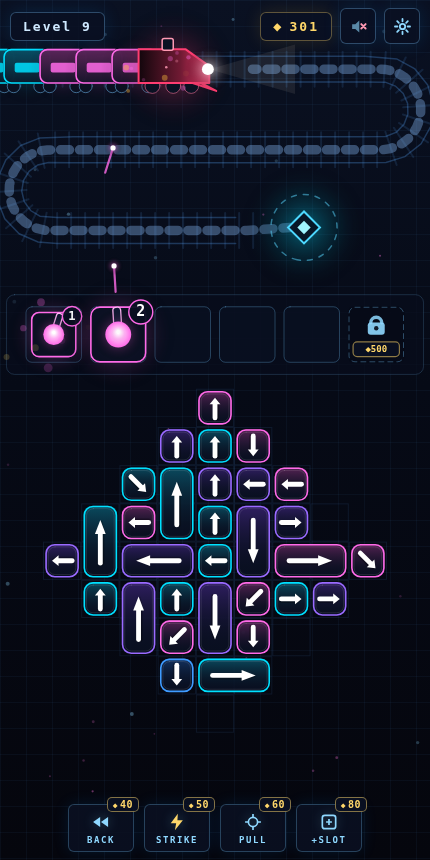
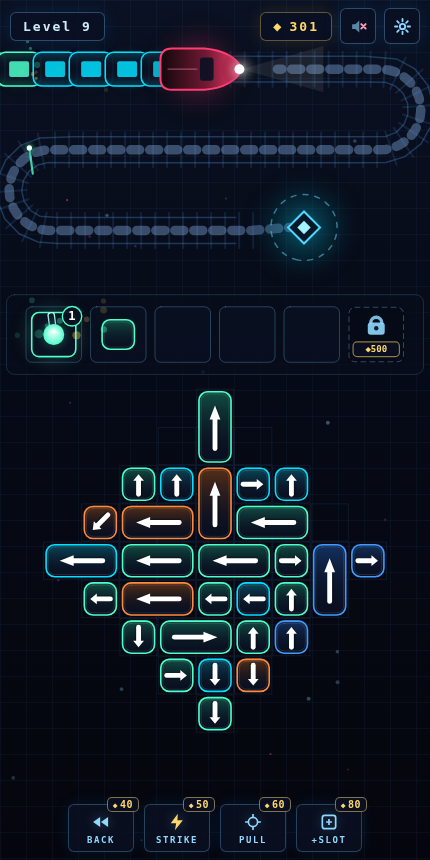
Redraw the train as clean top-down sprites
The convoy read as a side view (wheels underneath, smokestack,
cowcatcher, vertical bob). Redrawn top-down and minimal:

- Cars are symmetric rounded wagons with a centered cargo bay, no
  wheels, no bobbing — rigid glide along the rails
- The locomotive is a sleek bullet nose tapering to a point, with a
  dark canopy slot, a center spine, and a forward headlight beam
- Removed the per-car sine wobble so the train tracks the rails cleanly

Claude-Session: https://claude.ai/code/session_01FGeGpZbh5voJFieR2Ls51R

diff --git a/index.html b/index.html
@@ -555,7 +555,7 @@ function spoolPos(p){
 }
 function segXY(i,seg){
   const p=posAt(Math.max(0.5,segS(i,seg)));
-  return {x:p.x, y:p.y+Math.sin(G.crawlT*2.2+i*0.65)*1.4};
+  return {x:p.x, y:p.y};
 }
 function startShots(){
   if(G.phase!=='play') return;
@@ -973,31 +973,25 @@ function drawSpool(cx,cy,size,colIdx,units,firing,aimAng){
 }
 
 function drawSnakeSeg(x,y,ang,colIdx,i){
-  // a train car: dark wagon with a neon rim, cargo glow, and wheels on the rail
+  // a train car, top-down: symmetric rounded wagon with a glowing cargo bay
   const C=PALETTE[colIdx];
-  const L=G.segLen*1.32, T=G.thick*0.94;
-  drawGlow(x,y,T*0.85,C.m,0.24);
+  const L=G.segLen*1.26, T=G.thick*0.82;
+  drawGlow(x,y,T*0.8,C.m,0.22);
   ctx.save();
   ctx.translate(x,y); ctx.rotate(ang);
-  // wheels
-  ctx.fillStyle='#0a1122'; ctx.strokeStyle='rgba(120,200,255,0.5)'; ctx.lineWidth=1;
-  for(const wx of [-L*0.28,L*0.28]){
-    ctx.beginPath(); ctx.arc(wx,T*0.42,T*0.16,0,7); ctx.fill(); ctx.stroke();
-  }
-  // body
-  const r=Math.min(L,T)*0.18;
-  const gr=ctx.createLinearGradient(0,-T/2,0,T/2);
-  gr.addColorStop(0,C.d); gr.addColorStop(1,'#0a1122');
+  const r=Math.min(L,T)*0.24;
   ctx.fillStyle='rgba(10,16,34,0.94)';
-  rr(-L/2,-T/2,L,T*0.86,r); ctx.fill();
-  ctx.fillStyle=gr; ctx.globalAlpha=0.8;
-  rr(-L/2,-T/2,L,T*0.86,r); ctx.fill();
+  rr(-L/2,-T/2,L,T,r); ctx.fill();
+  const gr=ctx.createLinearGradient(0,-T/2,0,T/2);
+  gr.addColorStop(0,C.d); gr.addColorStop(0.5,'rgba(10,16,34,0)'); gr.addColorStop(1,C.d);
+  ctx.fillStyle=gr; ctx.globalAlpha=0.55;
+  rr(-L/2,-T/2,L,T,r); ctx.fill();
   ctx.globalAlpha=1;
   ctx.strokeStyle=C.m; ctx.lineWidth=1.6;
-  rr(-L/2+0.8,-T/2+0.8,L-1.6,T*0.86-1.6,r); ctx.stroke();
-  // cargo window: a slot of glowing payload
+  rr(-L/2+0.8,-T/2+0.8,L-1.6,T-1.6,r); ctx.stroke();
+  // cargo bay
   ctx.fillStyle=C.m; ctx.globalAlpha=0.85;
-  rr(-L*0.26,-T*0.16,L*0.52,T*0.24,2); ctx.fill();
+  rr(-L*0.22,-T*0.22,L*0.44,T*0.44,2); ctx.fill();
   ctx.globalAlpha=1;
   ctx.restore();
 }
@@ -1006,52 +1000,45 @@ function drawDragonHead(){
   const end=posAt(G.front);
   const R=headR();
   const open=G.mouthOpen;
-  // the locomotive: armored engine with a cowcatcher and a headlight beam
-  drawGlow(end.x,end.y,R*1.9,'#ff3d71',0.38);
+  // the locomotive, top-down: a sleek bullet nose with a headlight beam
+  drawGlow(end.x,end.y,R*1.8,'#ff3d71',0.38);
   ctx.save();
   ctx.translate(end.x,end.y); ctx.rotate(end.ang);
   const C={m:'#ff3d71',d:'#701a33',l:'#ff9ab4'};
-  const L=R*2.1, T=R*1.5;
+  const L=R*2.3, T=R*1.25;
   // headlight beam
   const flick=0.10+Math.sin(G.crawlT*13)*0.02;
   ctx.fillStyle=`rgba(255,240,220,${flick})`;
   ctx.beginPath();
-  ctx.moveTo(L*0.52,0);
-  ctx.lineTo(L*0.52+R*2.6,-R*0.75);
-  ctx.lineTo(L*0.52+R*2.6,R*0.75);
+  ctx.moveTo(L*0.56,0);
+  ctx.lineTo(L*0.56+R*2.5,-R*0.7);
+  ctx.lineTo(L*0.56+R*2.5,R*0.7);
   ctx.closePath(); ctx.fill();
-  // wheels
-  ctx.fillStyle='#0a1122'; ctx.strokeStyle='rgba(255,120,160,0.55)'; ctx.lineWidth=1;
-  for(const wx of [-L*0.30,0,L*0.26]){
-    ctx.beginPath(); ctx.arc(wx,T*0.34,T*0.15,0,7); ctx.fill(); ctx.stroke();
-  }
-  // hull with an angled nose
+  // hull: rounded body tapering to a bullet nose, symmetric about the track
   const gr=ctx.createLinearGradient(-L/2,0,L*0.6,0);
   gr.addColorStop(0,'#12060c'); gr.addColorStop(0.55,C.d); gr.addColorStop(1,C.m);
   ctx.fillStyle=gr; ctx.strokeStyle=C.m; ctx.lineWidth=2; ctx.lineJoin='round';
+  const r=T*0.28;
   ctx.beginPath();
-  ctx.moveTo(-L*0.5,-T*0.40);
-  ctx.lineTo(L*0.18,-T*0.40);
-  ctx.lineTo(L*0.52,-T*0.06);
-  ctx.lineTo(L*0.52,T*0.28);
-  ctx.lineTo(-L*0.5,T*0.28);
+  ctx.moveTo(-L*0.5+r,-T*0.5);
+  ctx.lineTo(L*0.08,-T*0.5);
+  ctx.quadraticCurveTo(L*0.46,-T*0.44,L*0.58,0);
+  ctx.quadraticCurveTo(L*0.46,T*0.44,L*0.08,T*0.5);
+  ctx.lineTo(-L*0.5+r,T*0.5);
+  ctx.quadraticCurveTo(-L*0.5,T*0.5,-L*0.5,T*0.5-r);
+  ctx.lineTo(-L*0.5,-T*0.5+r);
+  ctx.quadraticCurveTo(-L*0.5,-T*0.5,-L*0.5+r,-T*0.5);
   ctx.closePath(); ctx.fill(); ctx.stroke();
-  // cowcatcher
-  ctx.beginPath();
-  ctx.moveTo(L*0.40,T*0.28); ctx.lineTo(L*0.62,T*0.44); ctx.lineTo(L*0.28,T*0.28);
-  ctx.closePath(); ctx.fillStyle=C.d; ctx.fill(); ctx.stroke();
-  // stack
-  ctx.fillStyle='#0a1122'; ctx.strokeStyle=C.l; ctx.lineWidth=1.5;
-  rr(-L*0.16,-T*0.62,L*0.16,T*0.24,2); ctx.fill(); ctx.stroke();
-  // headlight lamp
-  drawGlow(L*0.52,0,R*0.7,'#ffffff',0.5);
+  // canopy: dark slot behind the nose
+  ctx.fillStyle='rgba(10,16,34,0.9)';
+  rr(L*0.02,-T*0.28,L*0.18,T*0.56,3); ctx.fill();
+  // center spine
+  ctx.strokeStyle='rgba(255,154,180,0.45)'; ctx.lineWidth=1.2;
+  ctx.beginPath(); ctx.moveTo(-L*0.40,0); ctx.lineTo(-L*0.02,0); ctx.stroke();
+  // headlight
+  drawGlow(L*0.56,0,R*0.6,'#ffffff',0.5);
   ctx.fillStyle='#fff';
-  ctx.beginPath(); ctx.arc(L*0.50,0,R*0.18,0,7); ctx.fill();
-  // engine sparks while advancing
-  if(G.phase==='play' && Math.random()<0.25){
-    G.particles.push({x:end.x-Math.cos(end.ang)*L*0.1,y:end.y-Math.sin(end.ang)*T*0.45,
-      vx:rand(-20,20),vy:rand(-50,-15),g:60,r:rand(1,2.2),c:'#ff9ab4',t:0,dur:rand(.2,.4)});
-  }
+  ctx.beginPath(); ctx.arc(L*0.54,0,R*0.15,0,7); ctx.fill();
   ctx.restore();
 }
 
@@ -1151,9 +1138,9 @@ function draw(){
 
   drawCat();
 
-  // snake body, tail first (offscreen strip included — it glides in past the edge)
+  // train cars, rear first (offscreen strip included — they glide in past the edge)
   for(let i=G.snake.length-1;i>=0;i--){
-    const s=segS(i,G.snake[i])+Math.sin(G.crawlT*0.9)*G.segLen*0.10;
+    const s=segS(i,G.snake[i]);
     if(s<1) continue;
     const p=posAt(s);
     drawSnakeSeg(p.x,p.y,p.ang,G.snake[i].c,i);
